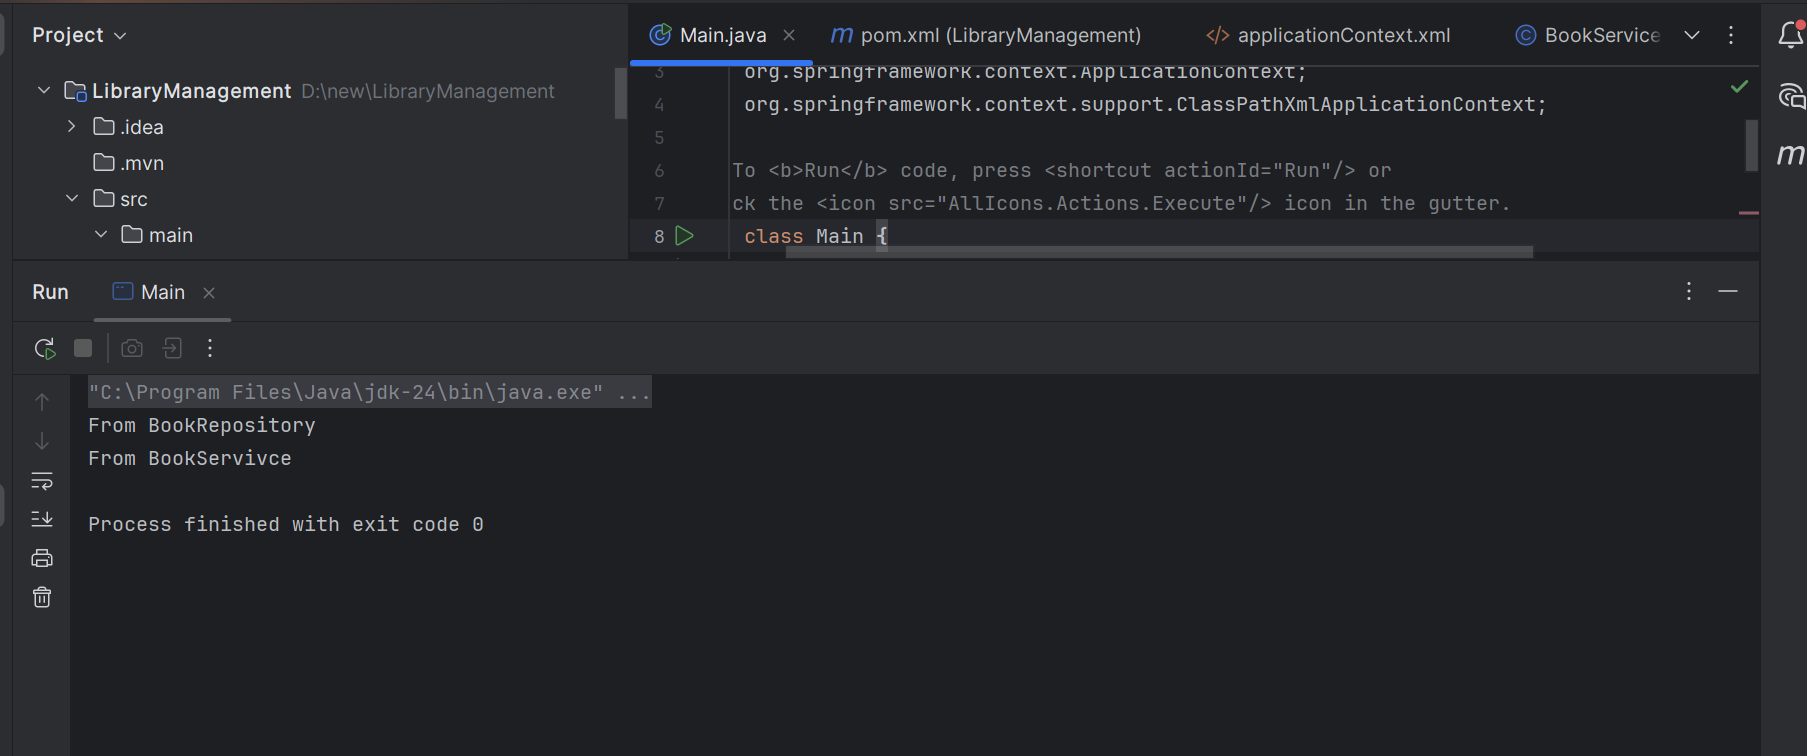
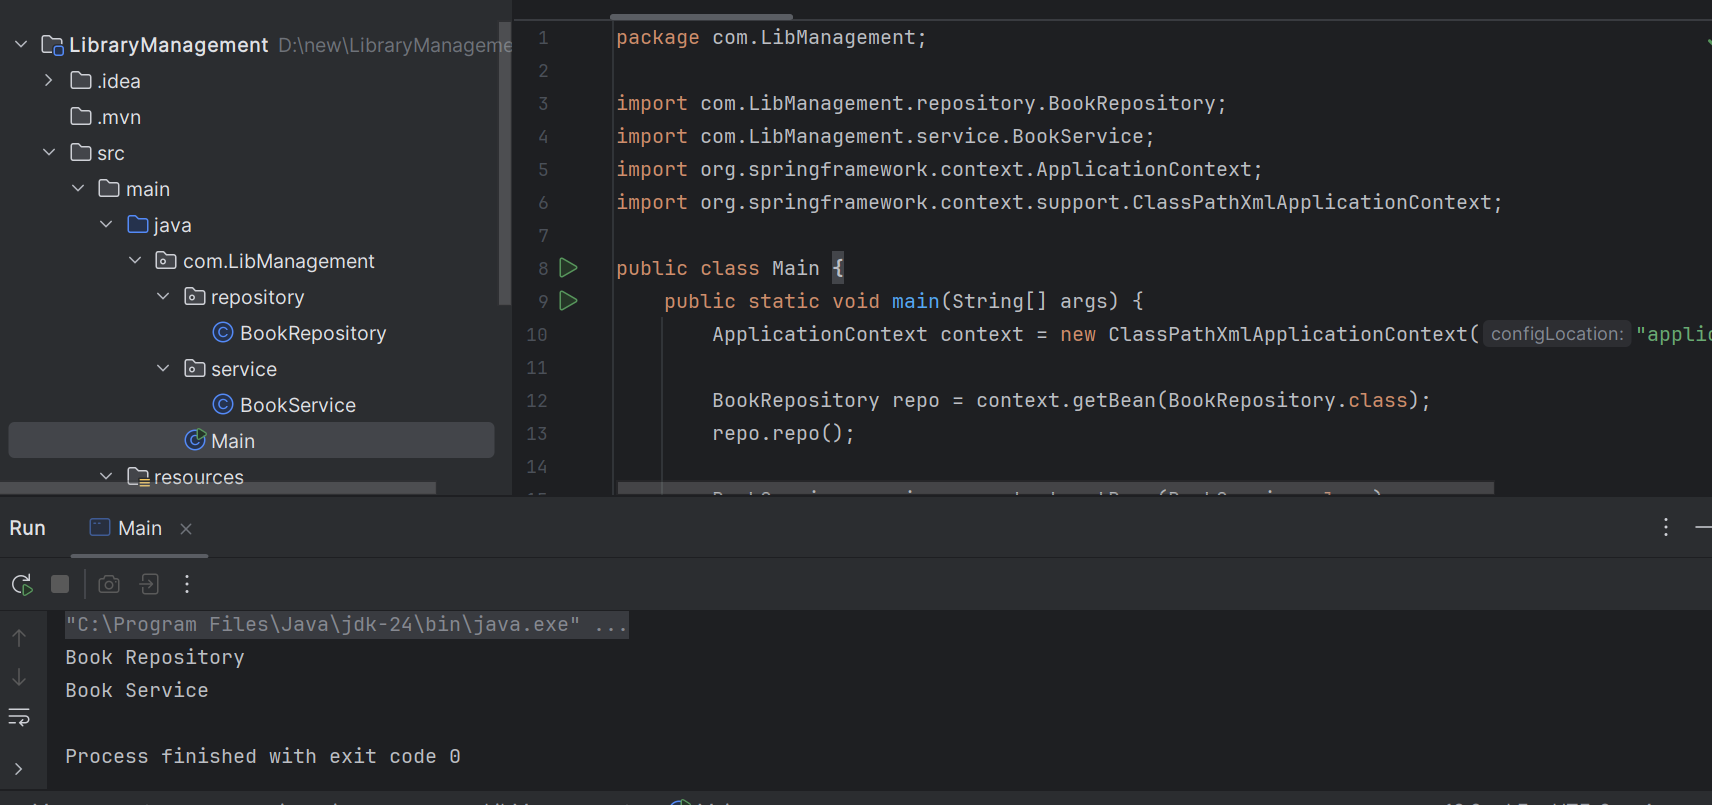
Improvements in LibraryManagement

diff --git a/Week3/Configuring_a_Basic_SpringApplication/LibraryManagement/src/main/java/com/LibManagement/Main.java b/Week3/Configuring_a_Basic_SpringApplication/LibraryManagement/src/main/java/com/LibManagement/Main.java
@@ -1,16 +1,18 @@
 package com.LibManagement;
 
+import com.LibManagement.repository.BookRepository;
+import com.LibManagement.service.BookService;
 import org.springframework.context.ApplicationContext;
 import org.springframework.context.support.ClassPathXmlApplicationContext;
 
 public class Main {
     public static void main(String[] args) {
-        
-        ApplicationContext context=new ClassPathXmlApplicationContext("applicationContext.xml");
+        ApplicationContext context = new ClassPathXmlApplicationContext("applicationContext.xml");
 
-        BookRepository repo=context.getBean(BookRepository.class);
-        repo.bookRepo();
-        BookService service =context.getBean(BookService.class);
-        service.bookService();
+        BookRepository repo = context.getBean(BookRepository.class);
+        repo.repo();
+
+        BookService service = context.getBean(BookService.class);
+        service.service();
     }
 }

diff --git a/Week3/Configuring_a_Basic_SpringApplication/LibraryManagement/src/main/java/com/LibManagement/repository/BookRepository.java b/Week3/Configuring_a_Basic_SpringApplication/LibraryManagement/src/main/java/com/LibManagement/repository/BookRepository.java
@@ -1,0 +1,7 @@
+package com.LibManagement.repository;
+
+public class BookRepository {
+    public void repo(){
+        System.out.println("Book Repository");
+    }
+}

diff --git a/Week3/Configuring_a_Basic_SpringApplication/LibraryManagement/src/main/java/com/LibManagement/service/BookService.java b/Week3/Configuring_a_Basic_SpringApplication/LibraryManagement/src/main/java/com/LibManagement/service/BookService.java
@@ -1,0 +1,7 @@
+package com.LibManagement.service;
+
+public class BookService {
+    public void service(){
+        System.out.println("Book Service");
+    }
+}
